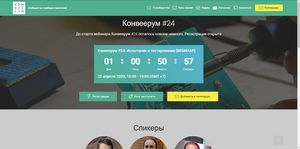
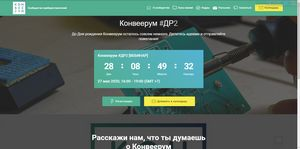
200429
fix url dr2

diff --git a/contact.html b/contact.html
@@ -46,7 +46,62 @@
 <!-- /Analytics -->
 
 
-  <section class="menu cid-rgCrtOWBev" once="menu" id="menu1-19">
+  <section class="mbr-section form1 cid-rgCsqIoDn4 mbr-parallax-background" id="form1-1e">
+
+    
+
+    <div class="mbr-overlay" style="opacity: 0.2; background-color: rgb(0, 0, 0);">
+    </div>
+    <div class="container">
+        <div class="row justify-content-center">
+            <div class="title col-12 col-lg-8">
+                <h2 class="mbr-section-title align-center pb-3 mbr-fonts-style display-2"><strong>
+                    Связаться
+                </strong></h2>
+                <h3 class="mbr-section-subtitle align-center mbr-light pb-3 mbr-fonts-style display-5">Пишите нам по любым вопросам и с любыми, самыми <br>смелыми предложениями. Мы обязательно перенаправим <br>Ваш запрос нужному адресату.</h3>
+            </div>
+        </div>
+    </div>
+    <div class="container">
+        <div class="row justify-content-center">
+            <div class="media-container-column col-lg-8" data-form-type="formoid">
+                    <div data-form-alert="" hidden="">Сообщение успешно отправлено!
+Мы свяжемся с Вами в билжайшее время.</div>
+            
+                    <form class="mbr-form" action="https://mobirise.com/" method="post" data-form-title="Mobirise Form"><input type="hidden" name="email" data-form-email="true" value="kImkAzq/Iq26i7OW38JmEWG0e/A4JYdFgzNqK51F0Bxf3bNRmOlvxPw1h1RWd8plPqxxBSpWNI88RMfeLoQhTCxXm2zMCcxiC+HcjZY5OqGgpBO30eXbF/YkGbspikCD.5iLVt72thg+1GN51QYWZS4LTqBzGg162p74o1cbdPESf3WQN1PFP5mSZiYGPg00D0ScyeKloj58/kcy6OywxiL/bl+hq8S8ihV/DMnoetdJd88AyZWtjUOGCg8SElK3y">
+                        <div class="row row-sm-offset">
+                            <div class="col-md-4 multi-horizontal" data-for="name">
+                                <div class="form-group">
+                                    <label class="form-control-label mbr-fonts-style display-7" for="name-form1-1e">Имя</label>
+                                    <input type="text" class="form-control" name="name" data-form-field="Name" required="" id="name-form1-1e">
+                                </div>
+                            </div>
+                            <div class="col-md-4 multi-horizontal" data-for="email">
+                                <div class="form-group">
+                                    <label class="form-control-label mbr-fonts-style display-7" for="email-form1-1e">E-mail</label>
+                                    <input type="email" class="form-control" name="email" data-form-field="Email" required="" id="email-form1-1e">
+                                </div>
+                            </div>
+                            <div class="col-md-4 multi-horizontal" data-for="phone">
+                                <div class="form-group">
+                                    <label class="form-control-label mbr-fonts-style display-7" for="phone-form1-1e">Телефон</label>
+                                    <input type="tel" class="form-control" name="phone" data-form-field="Phone" id="phone-form1-1e">
+                                </div>
+                            </div>
+                        </div>
+                        <div class="form-group" data-for="message">
+                            <label class="form-control-label mbr-fonts-style display-7" for="message-form1-1e">Сообщение</label>
+                            <textarea type="text" class="form-control" name="message" rows="7" data-form-field="Message" id="message-form1-1e"></textarea>
+                        </div>
+            
+                        <span class="input-group-btn"><button href="" type="submit" class="btn btn-form btn-secondary display-4">ОТПРАВИТЬ</button></span>
+                    </form>
+            </div>
+        </div>
+    </div>
+</section>
+
+<section class="menu cid-rgCrtOWBev" once="menu" id="menu1-19">
 
     
 
@@ -80,61 +135,6 @@
             <div class="navbar-buttons mbr-section-btn"><a class="btn btn-sm btn-success display-4" href="index.html"><span class="mbri-calendar mbr-iconfont mbr-iconfont-btn"></span>Календарь</a></div>
         </div>
     </nav>
-</section>
-
-<section class="mbr-section form1 cid-rgCsqIoDn4 mbr-parallax-background" id="form1-1e">
-
-    
-
-    <div class="mbr-overlay" style="opacity: 0.2; background-color: rgb(0, 0, 0);">
-    </div>
-    <div class="container">
-        <div class="row justify-content-center">
-            <div class="title col-12 col-lg-8">
-                <h2 class="mbr-section-title align-center pb-3 mbr-fonts-style display-2"><strong>
-                    Связаться
-                </strong></h2>
-                <h3 class="mbr-section-subtitle align-center mbr-light pb-3 mbr-fonts-style display-5">Пишите нам по любым вопросам и с любыми, самыми <br>смелыми предложениями. Мы обязательно перенаправим <br>Ваш запрос нужному адресату.</h3>
-            </div>
-        </div>
-    </div>
-    <div class="container">
-        <div class="row justify-content-center">
-            <div class="media-container-column col-lg-8" data-form-type="formoid">
-                    <div data-form-alert="" hidden="">Сообщение успешно отправлено!
-Мы свяжемся с Вами в билжайшее время.</div>
-            
-                    <form class="mbr-form" action="https://mobirise.com/" method="post" data-form-title="Mobirise Form"><input type="hidden" name="email" data-form-email="true" value="0w60zAh5X+4juFZVcmsUXJbZSKajGpc9eYs5kjm3tAzgRyiGkUmXVDMWRfW/5BH43kffS9lLn7nOk6UvrY67qcOv1q1VIHZoFIKka6cj5om8qSZ5AnaIDhz11wlp279i.iD68+uPn8OtjgwVS0/rmecd7vw7lR5Cka201r5sE/TTNXb4gQPQUXX4Dkl4KjnholuXj3DAA5sGIMhzAM64jh4JdL2Tff7PM3jYEyoLEzvYLnfOAlNhwr7sGgesEoXkm">
-                        <div class="row row-sm-offset">
-                            <div class="col-md-4 multi-horizontal" data-for="name">
-                                <div class="form-group">
-                                    <label class="form-control-label mbr-fonts-style display-7" for="name-form1-1e">Имя</label>
-                                    <input type="text" class="form-control" name="name" data-form-field="Name" required="" id="name-form1-1e">
-                                </div>
-                            </div>
-                            <div class="col-md-4 multi-horizontal" data-for="email">
-                                <div class="form-group">
-                                    <label class="form-control-label mbr-fonts-style display-7" for="email-form1-1e">E-mail</label>
-                                    <input type="email" class="form-control" name="email" data-form-field="Email" required="" id="email-form1-1e">
-                                </div>
-                            </div>
-                            <div class="col-md-4 multi-horizontal" data-for="phone">
-                                <div class="form-group">
-                                    <label class="form-control-label mbr-fonts-style display-7" for="phone-form1-1e">Телефон</label>
-                                    <input type="tel" class="form-control" name="phone" data-form-field="Phone" id="phone-form1-1e">
-                                </div>
-                            </div>
-                        </div>
-                        <div class="form-group" data-for="message">
-                            <label class="form-control-label mbr-fonts-style display-7" for="message-form1-1e">Сообщение</label>
-                            <textarea type="text" class="form-control" name="message" rows="7" data-form-field="Message" id="message-form1-1e"></textarea>
-                        </div>
-            
-                        <span class="input-group-btn"><button href="" type="submit" class="btn btn-form btn-secondary display-4">ОТПРАВИТЬ</button></span>
-                    </form>
-            </div>
-        </div>
-    </div>
 </section>
 
 <section once="" class="cid-rgCrtQZyqK" id="footer7-1b">

diff --git a/hr.html b/hr.html
@@ -295,7 +295,7 @@
                 </div>
                 <div data-form-type="formoid">
                     <!---Formbuilder Form--->
-                    <form action="https://mobirise.com/" method="POST" class="mbr-form form-with-styler" data-form-title="Mobirise Form"><input type="hidden" name="email" data-form-email="true" value="o0rh0G2IU561yPl3MtxFFuCgWLZxP1RH+fSzEcmGaJ+1vKjHgyvfvj6/9sVvDIKDdyhH83UUNPUgOiKTqE1Di0Bc5lokXsyEDNJRa52Fa2prSNnXhsYWed+2fhNBN/1a.7qM4FoAxTkymgyE4bHDxHXPETulJBwFsgHh81o7gMlnKLYrbiJ21U99vm7JqUYjATB85nMoFMuOgDJ8b8EyEkhN/hMxAnhzlTyjSNs8PymyQo9LS2Jq2+A0R/YFZqGxQ">
+                    <form action="https://mobirise.com/" method="POST" class="mbr-form form-with-styler" data-form-title="Mobirise Form"><input type="hidden" name="email" data-form-email="true" value="uoScbg6KqPp/0sFRp+M/tpfwCOGjh0IXnJhRCuuZ/8Xx3HnRuzxvncCVz+DTSoqnrdfN+1dtRigVyMjkdBMQNMONgeJ0IJt5iQNVI1omZ8YfJQDdHyjV89EKawxqxIfD.Lsl2ikihW1S0eourQRlcbinffM1hCXtyTfmti4ohsP3p8/h6XFObSSpoxiDjDuVWut8llAAX5chixzPamWexh81C9++On0xFg7dfDh2LVR2/9c8Awc0g96/tigKs8Qbc">
                         <div class="row">
                             <div hidden="hidden" data-form-alert="" class="alert alert-success col-12">Спасибо за заполнение анкеты!</div>
                             <div hidden="hidden" data-form-alert-danger="" class="alert alert-danger col-12">

diff --git a/dr2.html b/dr2.html
@@ -136,7 +136,7 @@
                     <div data-form-alert="" hidden="">Сообщение успешно отправлено!
 </div>
             
-                    <form class="mbr-form" action="https://mobirise.com/" method="post" data-form-title="Mobirise Form"><input type="hidden" name="email" data-form-email="true" value="W5LacTZhEY/FXEOev6XS1ZW2qjftoLWJ//gw4Dglfp5ti5lwqGkuSp+hQUaOtPZD9bExhZ1yXg8lgADWK8y4q67ixktYheQQgNUOuNLhX2qxKs1nrXnN8vVCD14JHf2P.c7v5gpJv3uB2R1FM3/Bx/Nc/10YwOI8/HFRg8IqPHmN/LqBdE5ca/U5LZYpmYMjv/FY5WFXheTxOGwv0w29oMHaV1K36CLTqA33mn9cV7mxtytJ91AR3ar3XGjkHbpzO">
+                    <form class="mbr-form" action="https://mobirise.com/" method="post" data-form-title="Mobirise Form"><input type="hidden" name="email" data-form-email="true" value="bBkKG1pHazeE0b+3Zz2nZhcHvCfIrsjMKpEHksgn1mFrkAMwwDC9RhW2uEansPC7NL2hP2W9LVinszqYpAg/bLq8l0F2OSbJyzsD5TrXIh6JMb9xOaFJ1mcvZgBArnVN.vPdlQ8IUPGLTlHM+x58ReZfToQ+Pn5mLVCU+bY5/HgVFojD1dlZTy9jeBCLMfrl124qOhXyy48Sp+gt4WErcD1xqwy9ahz9hcvD3vztZED3V+ddPU9Ug5cTSCIVyEYxC">
                         <div class="row row-sm-offset">
                             <div class="col-md-4 multi-horizontal" data-for="name">
                                 <div class="form-group">

diff --git a/index.html b/index.html
@@ -144,7 +144,7 @@
                         
                         <p class="mbr-text mbr-fonts-style display-7"><strong>27 мая</strong> проведем вебинар, на котором отпразднуем второй День рождения сообщества приборостроителей Конвеерум.<br><br> Планируем подвести итоги за год, поделиться планами на будущее и провести с активистами сообщества сессию по сбору и совместной генерации новых направлений и сервисов Конвеерум<br><br></p>
                     </div>
-                    <div class="mbr-section-btn text-center"><a href="https://www.notion.so/konveerum/21-7d095df4f6eb44c9a76d34191b4a1862" class="btn btn-secondary display-4" target="_blank">Подробнее</a></div>
+                    <div class="mbr-section-btn text-center"><a href="dr2.html" class="btn btn-secondary display-4">Подробнее</a></div>
                 </div>
             </div>
 
